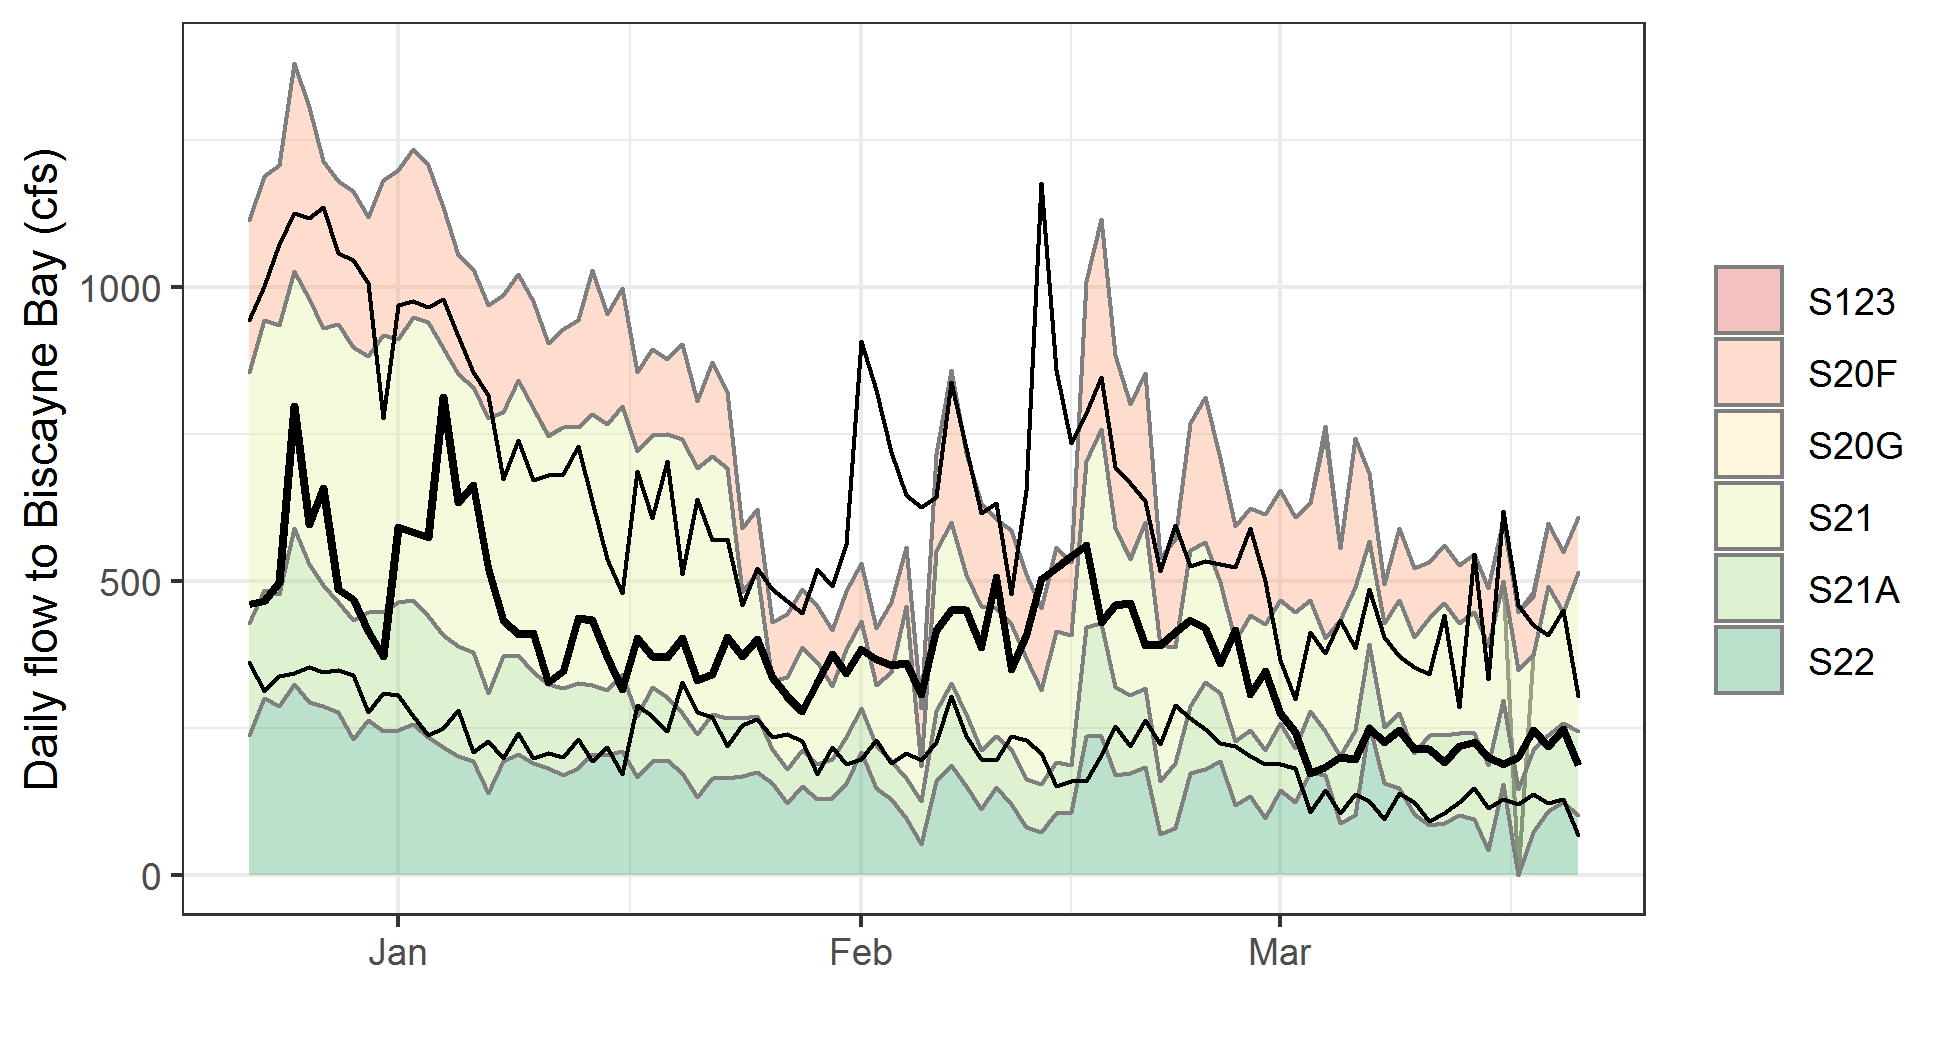
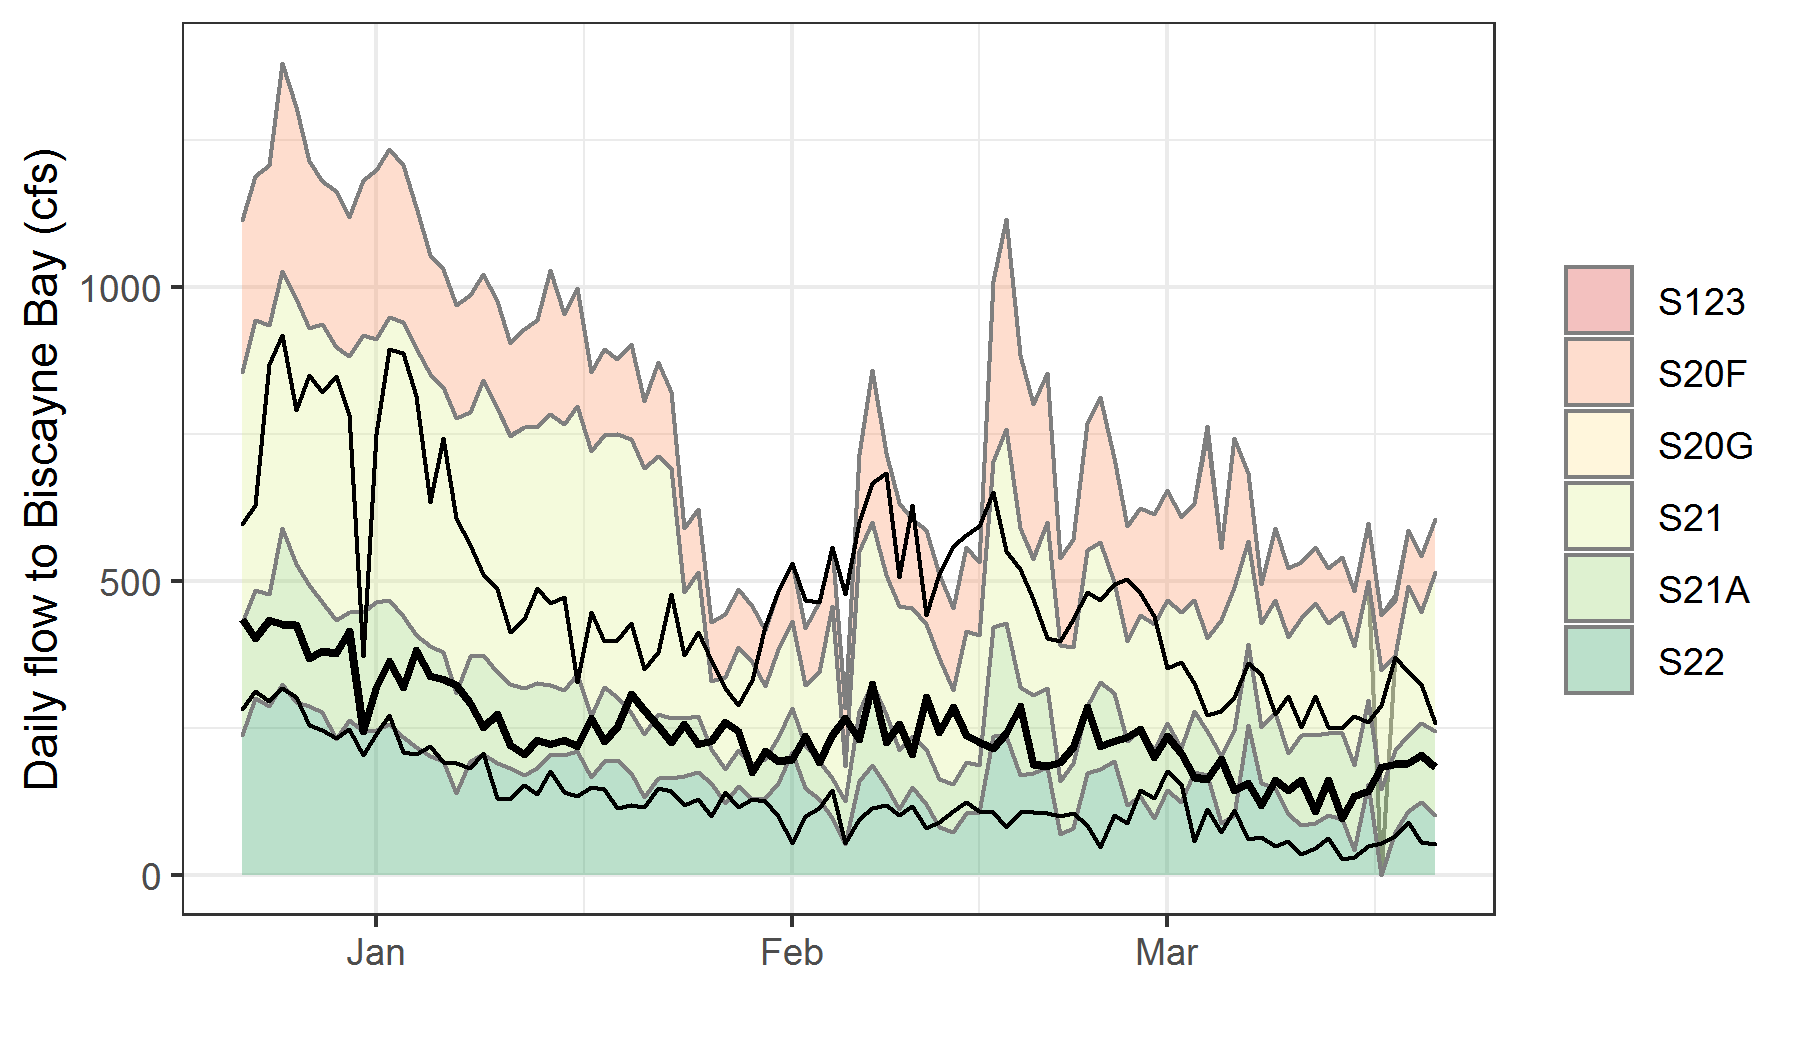
figure update

diff --git a/docs/output.md b/docs/output.md
@@ -46,6 +46,6 @@ Figure 5. Observed and forecast water levels at NP-205. Note different quantiles
 
 <img src="{{site.url}}/figures/BISC_inflows.png" style="display: block; margin: auto;" width="800" />
 
-Figure 6. Recent structure flow into Biscayne National Park (and S-22, just north of Biscayne National Park). Overlaid black lines indicate the 25th, 50th, and 75th percentiles for daily flows since 2010.
+Figure 6. Recent structure flow into Biscayne National Park (and S-22, just north of Biscayne National Park). Overlaid black lines indicate the 25th, 50th, and 75th percentiles for daily flows since 2001.
 
 
